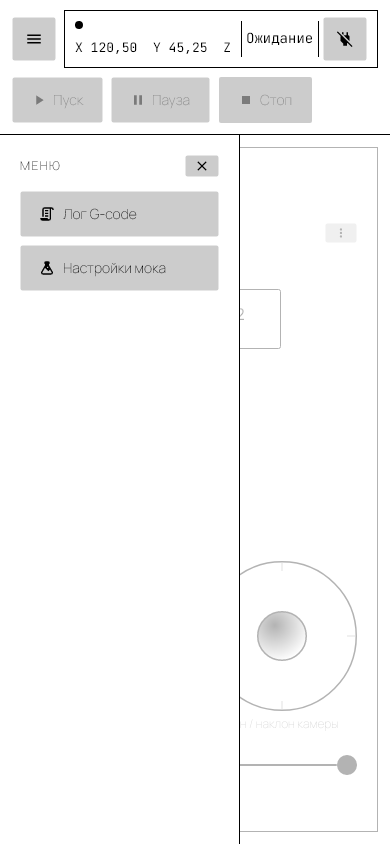
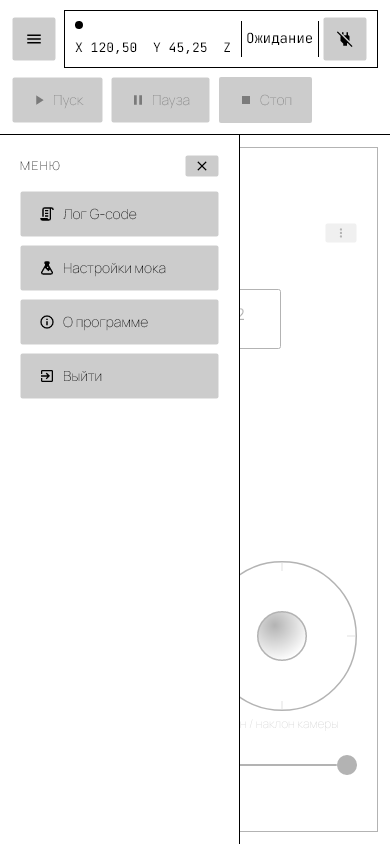
fix: keep every screenshot test on Avalonia's single UI thread
Both tests in ArctZ.Tests.Screenshots had been failing. AppBuilder.Setup binds
Avalonia to the thread that calls it, and HeadlessAppBootstrap calls it once per
process, so every control in this assembly must be built on that one thread. With
each test class its own xUnit collection, the two classes were dispatched to
different ThreadPool threads and raced: the loser built controls from a foreign
thread, which surfaced as a corrupted static registry inside MenuItem or
RadioButtonGroupManager, or as a plain cross-thread access error, depending on
who lost. It only became reachable once GCodeLogAutoScrollTests joined
ScreenshotGalleryTests — one class alone cannot race.

ArctZ.Tests already solved this with a shared named collection; this applies the
same fix here, with the reasoning recorded next to the bootstrap it protects.

Also stops the About dialog from clipping long values. Horizontal scrolling gave
the report lines an unbounded width, so TextWrapping never applied and the OS
version and firmware banner ran off the right edge.

Changed region(s): [[0.0308, 0.3389, 0.5846, 0.4929]]

diff --git a/ArctZ.Tests.Screenshots/HeadlessAppBootstrap.cs b/ArctZ.Tests.Screenshots/HeadlessAppBootstrap.cs
@@ -27,6 +27,27 @@ namespace ArctZ.Tests.Screenshots;
 /// ProgramViewModel/MainView from fakes independently of this one for actual
 /// capture.
 /// </summary>
+/// <summary>
+/// Every test class in this project must join this collection. AppBuilder.Setup binds
+/// Avalonia to whichever thread called it, and HeadlessAppBootstrap calls it exactly once
+/// per process — so all Avalonia work in this assembly has to happen on that one thread.
+/// xUnit runs each test class as its own collection by default and can dispatch different
+/// collections onto different ThreadPool threads; whichever class loses that race then
+/// builds controls from a foreign thread. That surfaces as unrelated-looking failures —
+/// "The calling thread cannot access this object", or a corrupted static registry inside
+/// MenuItem/RadioButtonGroupManager — rather than as an obvious threading error.
+///
+/// DisableParallelization alone would not be enough: it only stops collections running
+/// concurrently, not from running on different threads. Naming ONE collection for every
+/// class is what makes xUnit treat them as a single sequential unit. Same reasoning, and
+/// same fix, as ArctZ.Tests' "AvaloniaHeadless" collection.
+/// </summary>
+[CollectionDefinition(Name, DisableParallelization = true)]
+public class HeadlessAppCollection
+{
+    public const string Name = "HeadlessApp";
+}
+
 public static class HeadlessAppBootstrap
 {
     private static readonly Lazy<bool> Init = new(() =>

diff --git a/ArctZ.Tests.Screenshots/GCodeLogAutoScrollTests.cs b/ArctZ.Tests.Screenshots/GCodeLogAutoScrollTests.cs
@@ -21,6 +21,7 @@ namespace ArctZ.Tests.Screenshots;
 /// element bookkeeping has settled from the preceding Remove, could hand it a rect with
 /// a NaN/negative component, which Avalonia's Layoutable.Arrange rejects.
 /// </summary>
+[Collection(HeadlessAppCollection.Name)]
 public class GCodeLogAutoScrollTests
 {
     public GCodeLogAutoScrollTests() => HeadlessAppBootstrap.EnsureInitialized();

diff --git a/ArctZ.Tests.Screenshots/ScreenshotGalleryTests.cs b/ArctZ.Tests.Screenshots/ScreenshotGalleryTests.cs
@@ -14,6 +14,7 @@ using ArctZ.Views;
 
 namespace ArctZ.Tests.Screenshots;
 
+[Collection(HeadlessAppCollection.Name)]
 public class ScreenshotGalleryTests
 {
     public ScreenshotGalleryTests() => HeadlessAppBootstrap.EnsureInitialized();

diff --git a/screenshots/SCREENS.md b/screenshots/SCREENS.md
@@ -15,3 +15,4 @@
 | 9 | Боковое меню (`side-menu`) | [09-side-menu.png](09-side-menu.png) |
 | 10 | Лог G-code (`gcode-log`) | [10-gcode-log.png](10-gcode-log.png) |
 | 11 | Настройки мока (`mock-settings`) | [11-mock-settings.png](11-mock-settings.png) |
+| 12 | О программе (диагностика) (`about`) | [12-about.png](12-about.png) |
